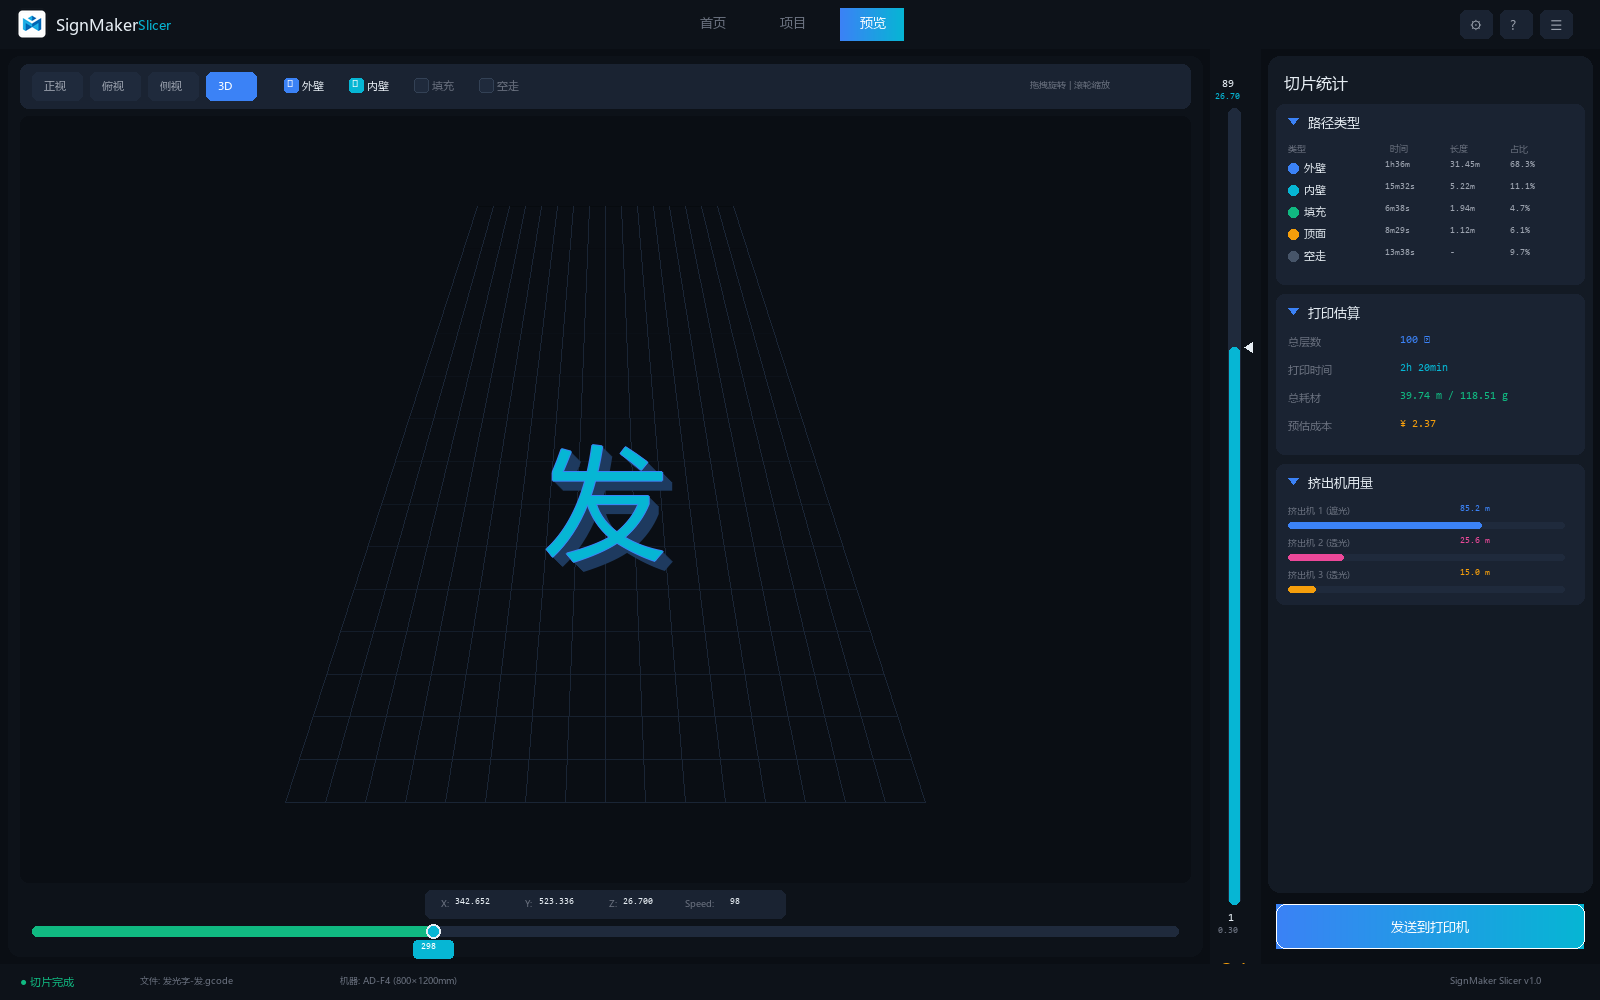
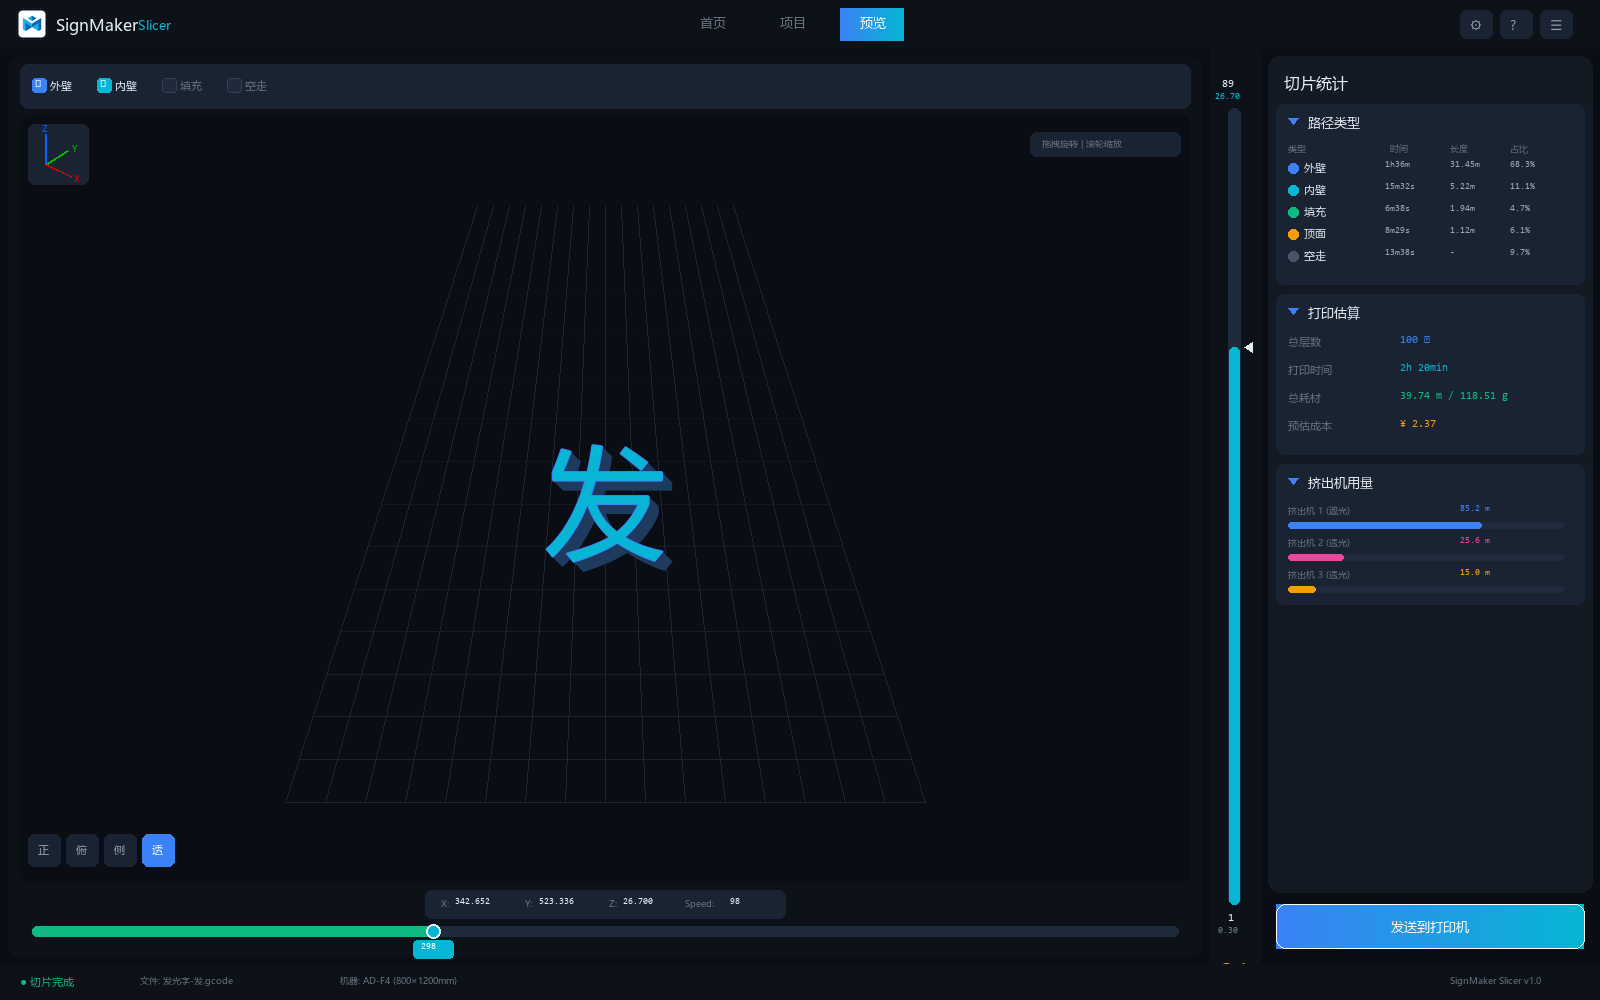
feat: 优化预览界面布局和3D视图坐标系
- 添加左上角坐标系显示（Z向上、Y向右上、X向右下）
- 添加左下角观察方位按钮（正/俯/侧/透）
- 添加右上角操作提示（拖拽旋转|滚轮缩放）
- 简化底部进度条，显示坐标信息（X/Y/Z/Speed）
- 简化右侧层高滑块，添加三角形指示器
- 删除保存截图和导出G-Code按钮，保留发送到打印机

diff --git a/scripts/generate_ui_slice_preview.py b/scripts/generate_ui_slice_preview.py
@@ -171,23 +171,10 @@ def generate_preview_mode():
     toolbar_y = canvas_y + 16
     draw_rounded_rect(canvas_x + 20, toolbar_y, canvas_w - 40, 44, 8, fill=C["bg_card"])
 
-    # 视图切换按钮组
-    view_buttons = [("正视", False), ("俯视", False), ("侧视", False), ("3D", True)]
-    vx = canvas_x + 32
-    for name, active in view_buttons:
-        btn_w = 50
-        if active:
-            draw_rounded_rect(vx, toolbar_y + 8, btn_w, 28, 6, fill=C["accent_primary"])
-            draw_text(vx + 12, toolbar_y + 14, name, font_body, (255, 255, 255))
-        else:
-            draw_rounded_rect(vx, toolbar_y + 8, btn_w, 28, 6, fill=C["bg_elevated"])
-            draw_text(vx + 12, toolbar_y + 14, name, font_body, C["text_secondary"])
-        vx += btn_w + 8
-
-    # 显示选项
+    # 显示选项（路径类型过滤）
     display_options = [("外壁", True, C["path_outer"]), ("内壁", True, C["path_inner"]),
                        ("填充", False, C["path_fill"]), ("空走", False, C["path_travel"])]
-    ox = vx + 20
+    ox = canvas_x + 32
     for name, enabled, color in display_options:
         # 复选框
         box_x = ox
@@ -201,13 +188,53 @@ def generate_preview_mode():
         draw_text(box_x + 18, box_y, name, font_body, C["text_primary"] if enabled else C["text_muted"])
         ox += 65
 
-    # 右侧操作提示
-    draw_text(canvas_x + canvas_w - 180, toolbar_y + 14, "拖拽旋转 | 滚轮缩放", font_small, C["text_muted"])
-
     # 3D画布内容区
     inner_canvas_y = toolbar_y + 52
     inner_canvas_h = canvas_h - 150  # 给底部进度条留空间
     draw_rounded_rect(canvas_x + 20, inner_canvas_y, canvas_w - 40, inner_canvas_h, 8, fill=C["bg_base"])
+
+    # ---- 左上角坐标系 ----
+    axis_box_x = canvas_x + 28
+    axis_box_y = inner_canvas_y + 8
+    draw_rounded_rect(axis_box_x, axis_box_y, 60, 60, 6, fill=C["bg_card"])
+
+    # 坐标轴原点（在盒子左侧中间位置）
+    axis_origin_x = axis_box_x + 18
+    axis_origin_y = axis_box_y + 40
+    axis_len = 25
+
+    # Z轴 (蓝色, 向上 - 垂直)
+    draw.line([(axis_origin_x, axis_origin_y), (axis_origin_x, axis_origin_y - 30)], fill=(0, 100, 255), width=2)
+    draw_text(axis_origin_x - 4, axis_origin_y - 42, "Z", font_small, (0, 100, 255))
+
+    # Y轴 (绿色, 向右上)
+    draw.line([(axis_origin_x, axis_origin_y), (axis_origin_x + 22, axis_origin_y - 14)], fill=(0, 180, 0), width=2)
+    draw_text(axis_origin_x + 26, axis_origin_y - 22, "Y", font_small, (0, 180, 0))
+
+    # X轴 (红色, 向右下)
+    draw.line([(axis_origin_x, axis_origin_y), (axis_origin_x + 25, axis_origin_y + 12)], fill=(220, 0, 0), width=2)
+    draw_text(axis_origin_x + 28, axis_origin_y + 8, "X", font_small, (220, 0, 0))
+
+    # ---- 左下角观察方位按钮 ----
+    view_btn_y = inner_canvas_y + inner_canvas_h - 48
+    view_btn_x = canvas_x + 28
+    view_buttons = [("正", False), ("俯", False), ("侧", False), ("透", True)]
+    for name, active in view_buttons:
+        btn_w = 32
+        if active:
+            draw_rounded_rect(view_btn_x, view_btn_y, btn_w, 32, 6, fill=C["accent_primary"])
+            draw_text(view_btn_x + 10, view_btn_y + 8, name, font_body, (255, 255, 255))
+        else:
+            draw_rounded_rect(view_btn_x, view_btn_y, btn_w, 32, 6, fill=C["bg_card"])
+            draw_text(view_btn_x + 10, view_btn_y + 8, name, font_body, C["text_secondary"])
+        view_btn_x += btn_w + 6
+
+    # ---- 右上角操作提示 ----
+    hint_text = "拖拽旋转 | 滚轮缩放"
+    hint_x = canvas_x + canvas_w - 180
+    hint_y = inner_canvas_y + 16
+    draw_rounded_rect(hint_x, hint_y, 150, 24, 6, fill=C["bg_card"])
+    draw_text(hint_x + 12, hint_y + 5, hint_text, font_small, C["text_muted"])
 
     # 3D网格地面 (透视效果)
     grid_center_x = canvas_x + canvas_w // 2

diff --git a/scripts/generate_ui_project_3d.py b/scripts/generate_ui_project_3d.py
@@ -290,6 +290,49 @@ inner_canvas_h = canvas_h - 120
 
 draw_rounded_rect(canvas_x + 20, inner_canvas_y, canvas_w - 40, inner_canvas_h, 8, fill=C["bg_base"])
 
+# ---- 左上角坐标系 ----
+axis_box_x = canvas_x + 28
+axis_box_y = inner_canvas_y + 8
+draw_rounded_rect(axis_box_x, axis_box_y, 60, 60, 6, fill=C["bg_card"])
+
+# 坐标轴原点（在盒子左侧中间位置）
+axis_origin_x = axis_box_x + 18
+axis_origin_y = axis_box_y + 40
+axis_len = 25
+
+# Z轴 (蓝色, 向上 - 垂直)
+draw.line([(axis_origin_x, axis_origin_y), (axis_origin_x, axis_origin_y - 30)], fill=(0, 100, 255), width=2)
+draw_text(axis_origin_x - 4, axis_origin_y - 42, "Z", font_small, (0, 100, 255))
+
+# Y轴 (绿色, 向右上)
+draw.line([(axis_origin_x, axis_origin_y), (axis_origin_x + 22, axis_origin_y - 14)], fill=(0, 180, 0), width=2)
+draw_text(axis_origin_x + 26, axis_origin_y - 22, "Y", font_small, (0, 180, 0))
+
+# X轴 (红色, 向右下)
+draw.line([(axis_origin_x, axis_origin_y), (axis_origin_x + 25, axis_origin_y + 12)], fill=(220, 0, 0), width=2)
+draw_text(axis_origin_x + 28, axis_origin_y + 8, "X", font_small, (220, 0, 0))
+
+# ---- 左下角观察方位按钮 ----
+view_btn_y = inner_canvas_y + inner_canvas_h - 48
+view_btn_x = canvas_x + 28
+view_buttons = [("正", False), ("俯", False), ("侧", False), ("透", True)]
+for name, active in view_buttons:
+    btn_w = 32
+    if active:
+        draw_rounded_rect(view_btn_x, view_btn_y, btn_w, 32, 6, fill=C["accent_primary"])
+        draw_text(view_btn_x + 10, view_btn_y + 8, name, font_body, (255, 255, 255))
+    else:
+        draw_rounded_rect(view_btn_x, view_btn_y, btn_w, 32, 6, fill=C["bg_card"])
+        draw_text(view_btn_x + 10, view_btn_y + 8, name, font_body, C["text_secondary"])
+    view_btn_x += btn_w + 6
+
+# ---- 右上角操作提示 ----
+hint_text = "拖拽旋转 | 滚轮缩放"
+hint_x = canvas_x + canvas_w - 180
+hint_y = inner_canvas_y + 16
+draw_rounded_rect(hint_x, hint_y, 150, 24, 6, fill=C["bg_card"])
+draw_text(hint_x + 12, hint_y + 5, hint_text, font_small, C["text_muted"])
+
 # 3D网格地面 (透视效果) - 机器尺寸800×1200mm，每格40mm
 grid_center_x = canvas_x + canvas_w // 2
 grid_center_y = inner_canvas_y + inner_canvas_h - 80
